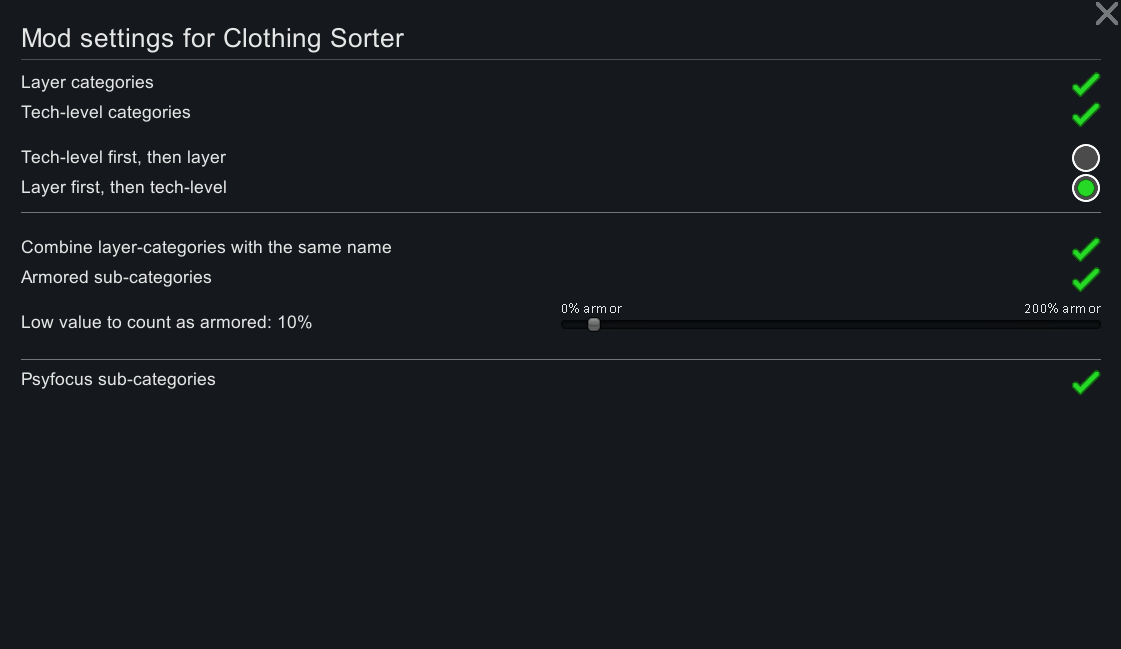
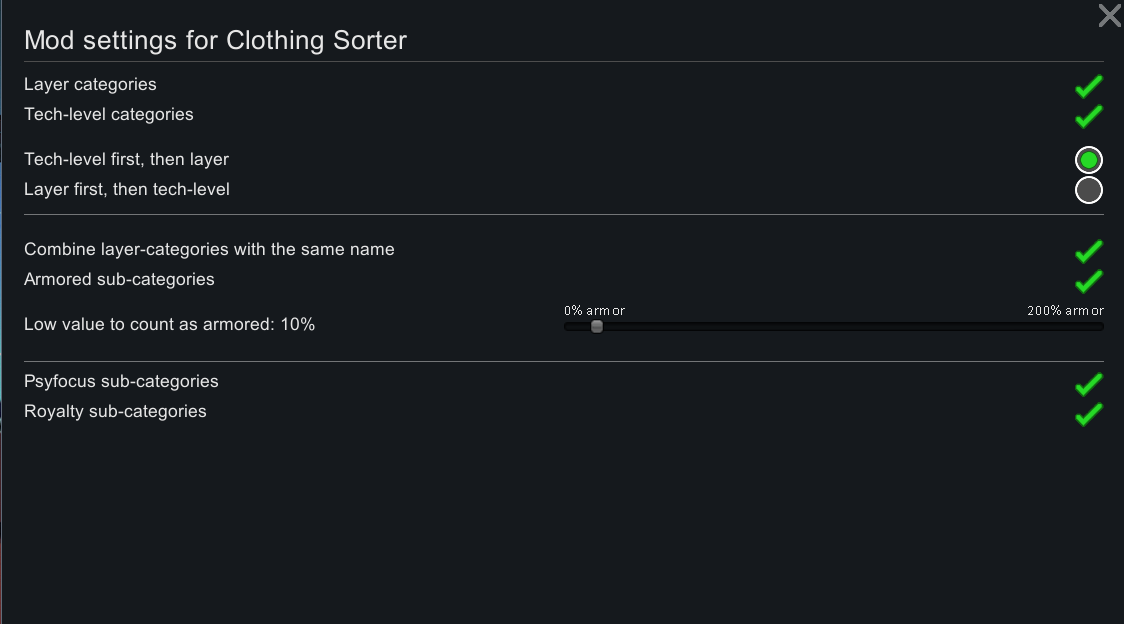
Should now not throw errors when sorting non-apparel. Added check for StuffEffectMultiplierArmor

diff --git a/Source/ClothingSorter/ClothingSorter.cs b/Source/ClothingSorter/ClothingSorter.cs
@@ -208,7 +208,8 @@ namespace ClothingSorter
                 if (ClothingSorterMod.instance.Settings.ArmoredSeparate)
                 {
                     if ((apparel.StatBaseDefined(StatDefOf.ArmorRating_Blunt) && apparel.GetStatValueAbstract(StatDefOf.ArmorRating_Blunt) > ClothingSorterMod.instance.Settings.ArmorRating) ||
-                        (apparel.StatBaseDefined(StatDefOf.ArmorRating_Sharp) && apparel.GetStatValueAbstract(StatDefOf.ArmorRating_Sharp) > ClothingSorterMod.instance.Settings.ArmorRating))
+                        (apparel.StatBaseDefined(StatDefOf.ArmorRating_Sharp) && apparel.GetStatValueAbstract(StatDefOf.ArmorRating_Sharp) > ClothingSorterMod.instance.Settings.ArmorRating) ||
+                        (apparel.StatBaseDefined(StatDefOf.StuffEffectMultiplierArmor) && apparel.GetStatValueAbstract(StatDefOf.StuffEffectMultiplierArmor) > ClothingSorterMod.instance.Settings.ArmorRating * 2))
                     {
                         apparel.thingCategories.Add(armoredThingCategory);
                         armoredThingCategory.childThingDefs.Add(apparel);
@@ -217,7 +218,7 @@ namespace ClothingSorter
                 }
                 if (ModLister.RoyaltyInstalled && ClothingSorterMod.instance.Settings.PsychicSeparate)
                 {
-                    if (apparel.apparel.tags != null && apparel.apparel.tags.Contains("Psychic"))
+                    if (apparel.apparel?.tags?.Contains("Psychic") == true)
                     {
                         apparel.thingCategories.Add(psyfocusThingCategory);
                         psyfocusThingCategory.childThingDefs.Add(apparel);
@@ -226,7 +227,7 @@ namespace ClothingSorter
                 }
                 if (ModLister.RoyaltyInstalled && ClothingSorterMod.instance.Settings.RoyaltySeparate)
                 {
-                    if (apparel.apparel.tags != null && apparel.apparel.tags.Contains("Royal"))
+                    if (apparel.apparel?.tags?.Contains("Royal") == true)
                     {
                         apparel.thingCategories.Add(royaltyThingCategory);
                         royaltyThingCategory.childThingDefs.Add(apparel);

diff --git a/Source/ClothingSorter/Settings/Settings.cs b/Source/ClothingSorter/Settings/Settings.cs
@@ -12,7 +12,7 @@ namespace ClothingSorter
         public int SortSetting = 0;
         public bool CombineLayers = true;
         public bool ArmoredSeparate = true;
-        public float ArmorRating = 0.1f;
+        public float ArmorRating = 0.2f;
         public bool PsychicSeparate = true;
         public bool RoyaltySeparate = false;
 
@@ -27,7 +27,7 @@ namespace ClothingSorter
             Scribe_Values.Look(ref SortSetting, "SortSetting", 0, false);
             Scribe_Values.Look(ref CombineLayers, "CombineLayers", true, false);
             Scribe_Values.Look(ref ArmoredSeparate, "ArmoredSeparate", true, false);
-            Scribe_Values.Look(ref ArmorRating, "ArmorRating", 0.1f, false);
+            Scribe_Values.Look(ref ArmorRating, "ArmorRating", 0.2f, false);
             Scribe_Values.Look(ref PsychicSeparate, "PsychicSeparate", true, false);
             Scribe_Values.Look(ref RoyaltySeparate, "RoyaltySeparate", false, false);
         }
